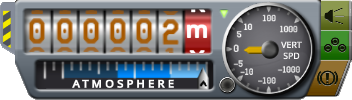
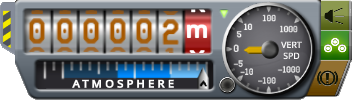
Don't display AGL unless gear is down

Changed region(s): [[0.9062, 0.36, 1.0, 0.54]]

diff --git a/RadarAltitude/RadarAltitude.cs b/RadarAltitude/RadarAltitude.cs
@@ -28,9 +28,9 @@ namespace RadarAltitude
 
             if (vessel.situation != Vessel.Situations.LANDED &&
                 vessel.vesselType != VesselType.EVA &&
+                vessel.ActionGroups[KSPActionGroup.Gear] &&
                 radarAlt > 0 &&
                 radarAlt < RDA1.maxRange)
-
             {
                 if (radarAlt > RDA1.mediumRez)		// Low resolution between 1000-3000m
                     radarAlt = ((int) radarAlt / 10) * 10;

diff --git a/README.md b/README.md
@@ -7,7 +7,7 @@ Manned command modules are equipped with an RDA-1 radar altimeter which displays
 
 ![RDA-1 radar altimeter](img/RDA-1.png)
 
-This mod automatically switches the  exterior view's altitude readout from ASL to AGL and the digits' colour from black to "navball brown" when your altitude is below 3000m AGL:
+This mod automatically switches the  exterior view's altitude readout from ASL to AGL and the digits' colour from black to "navball brown" when your gear is down and your altitude is below 3000m AGL:
 
 ![Altitude readout in radar mode](img/radar-mode.png)
 
